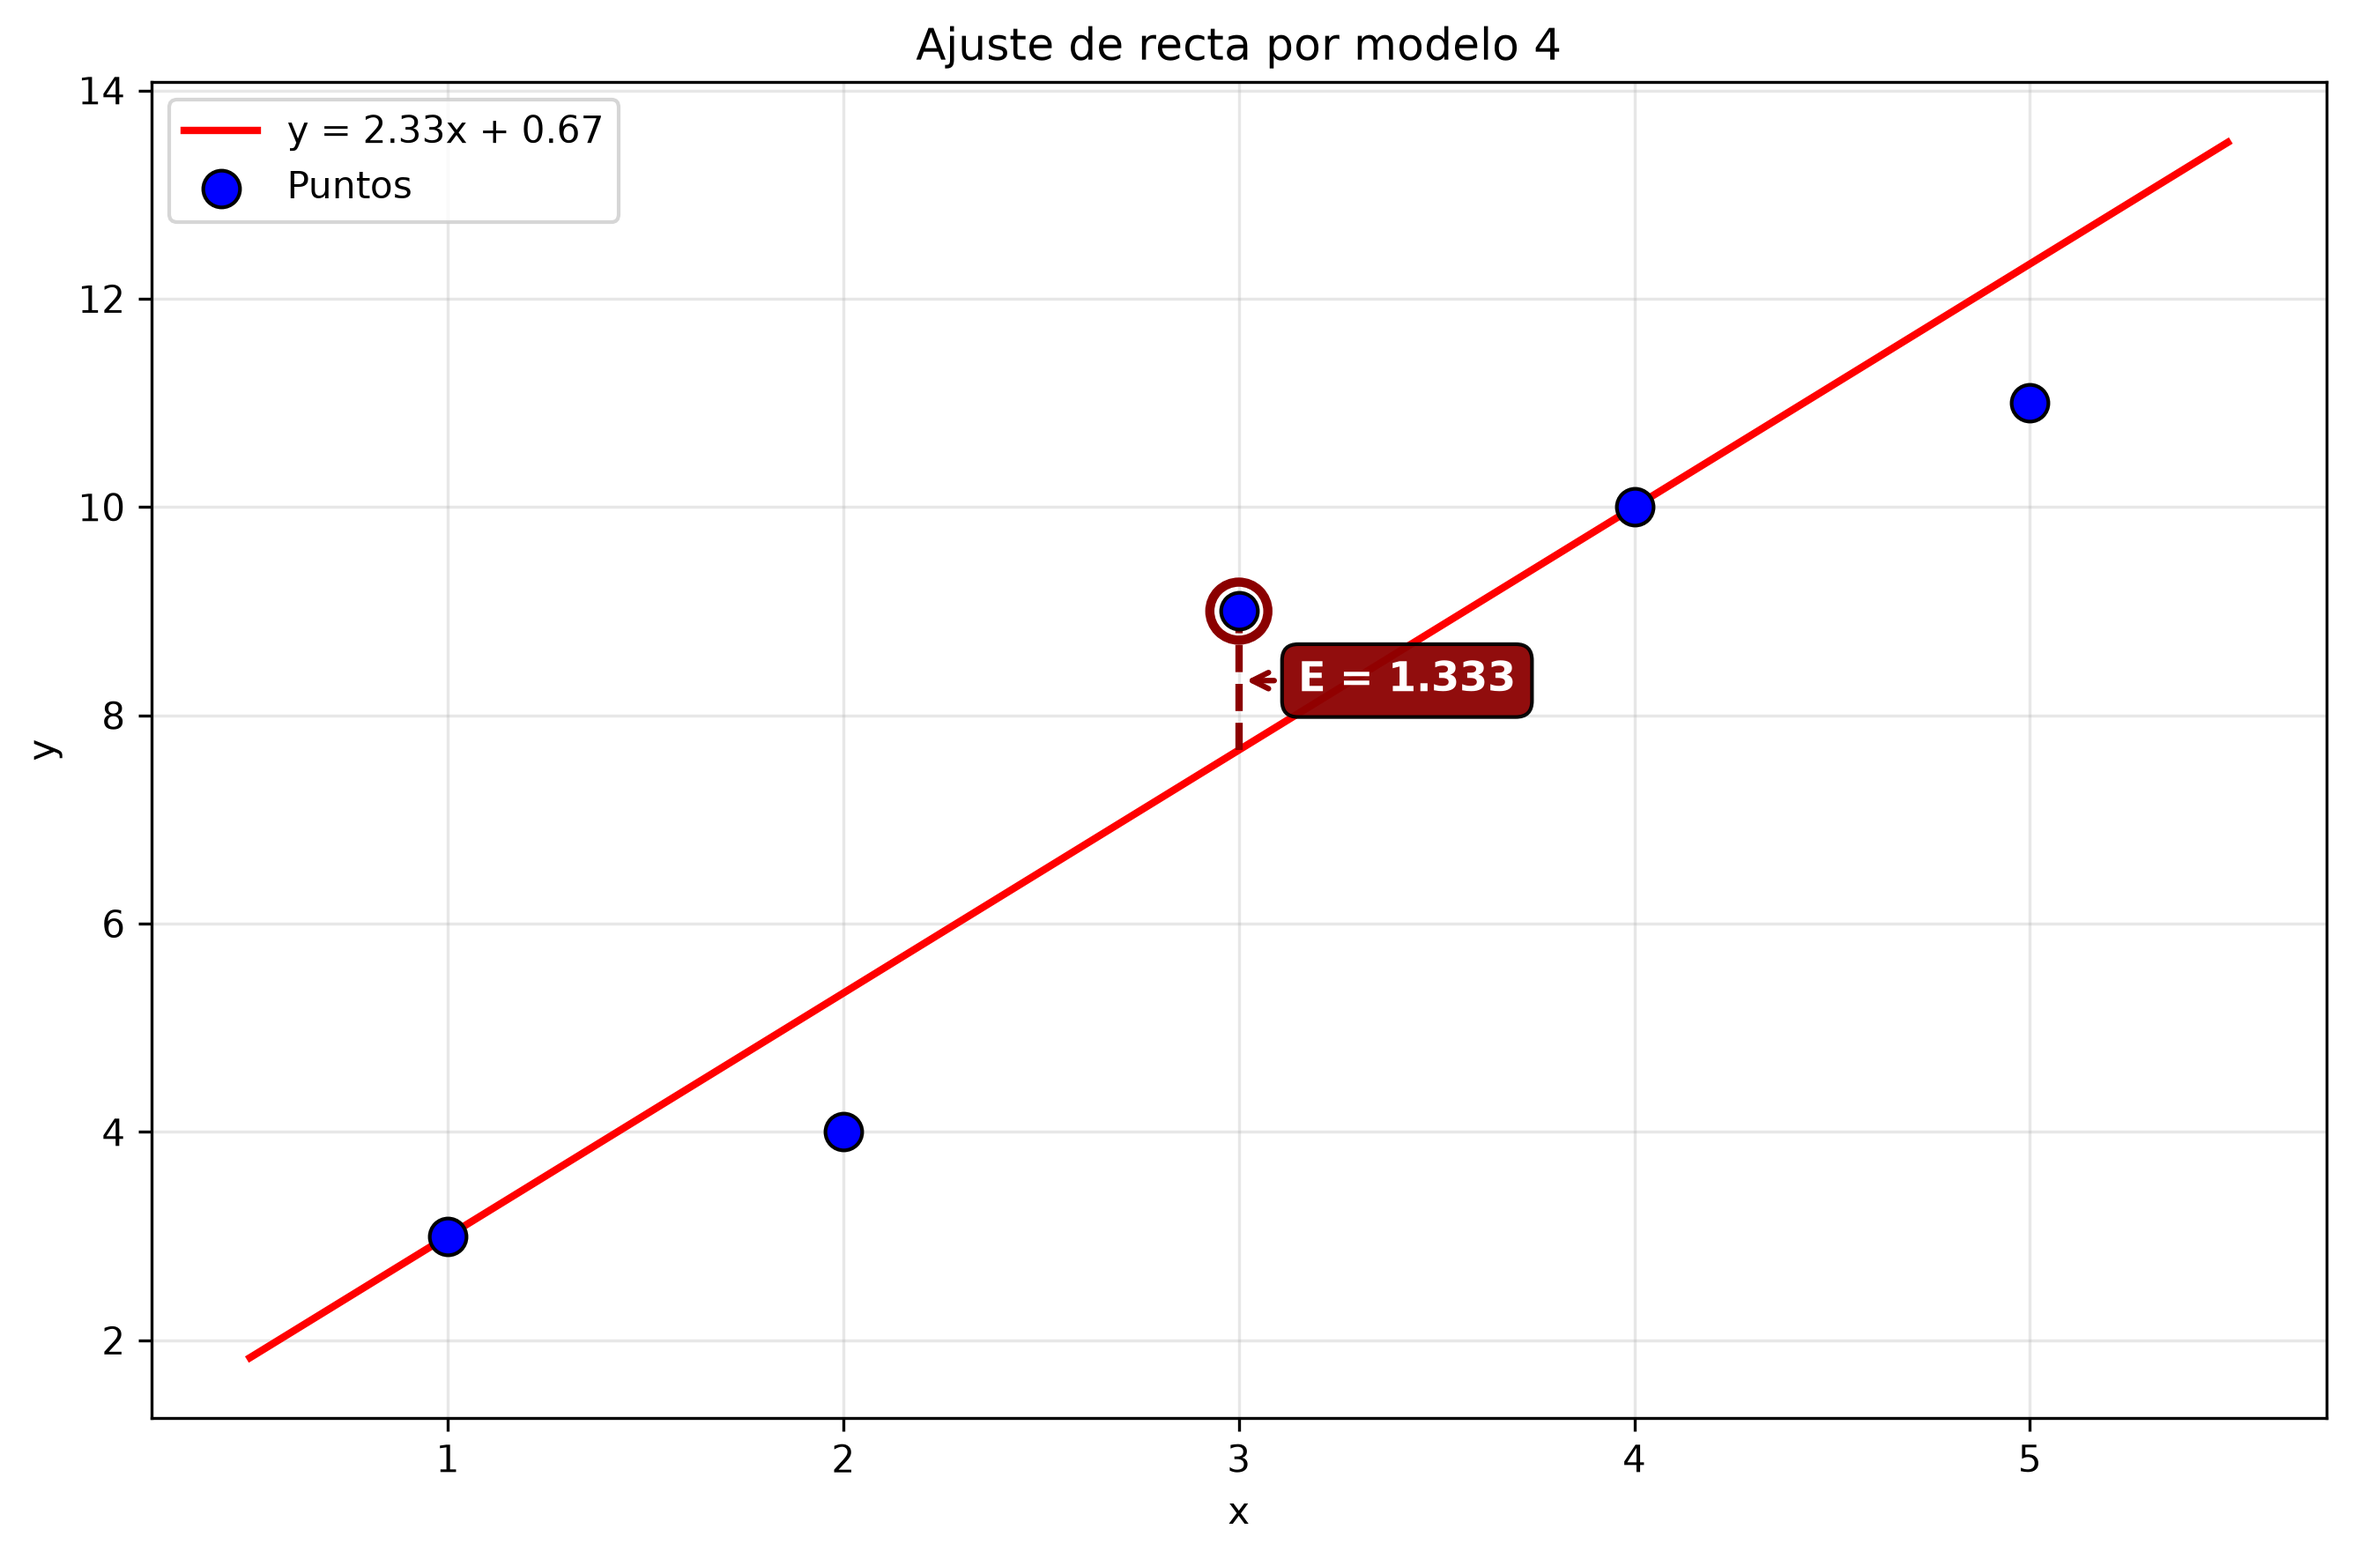
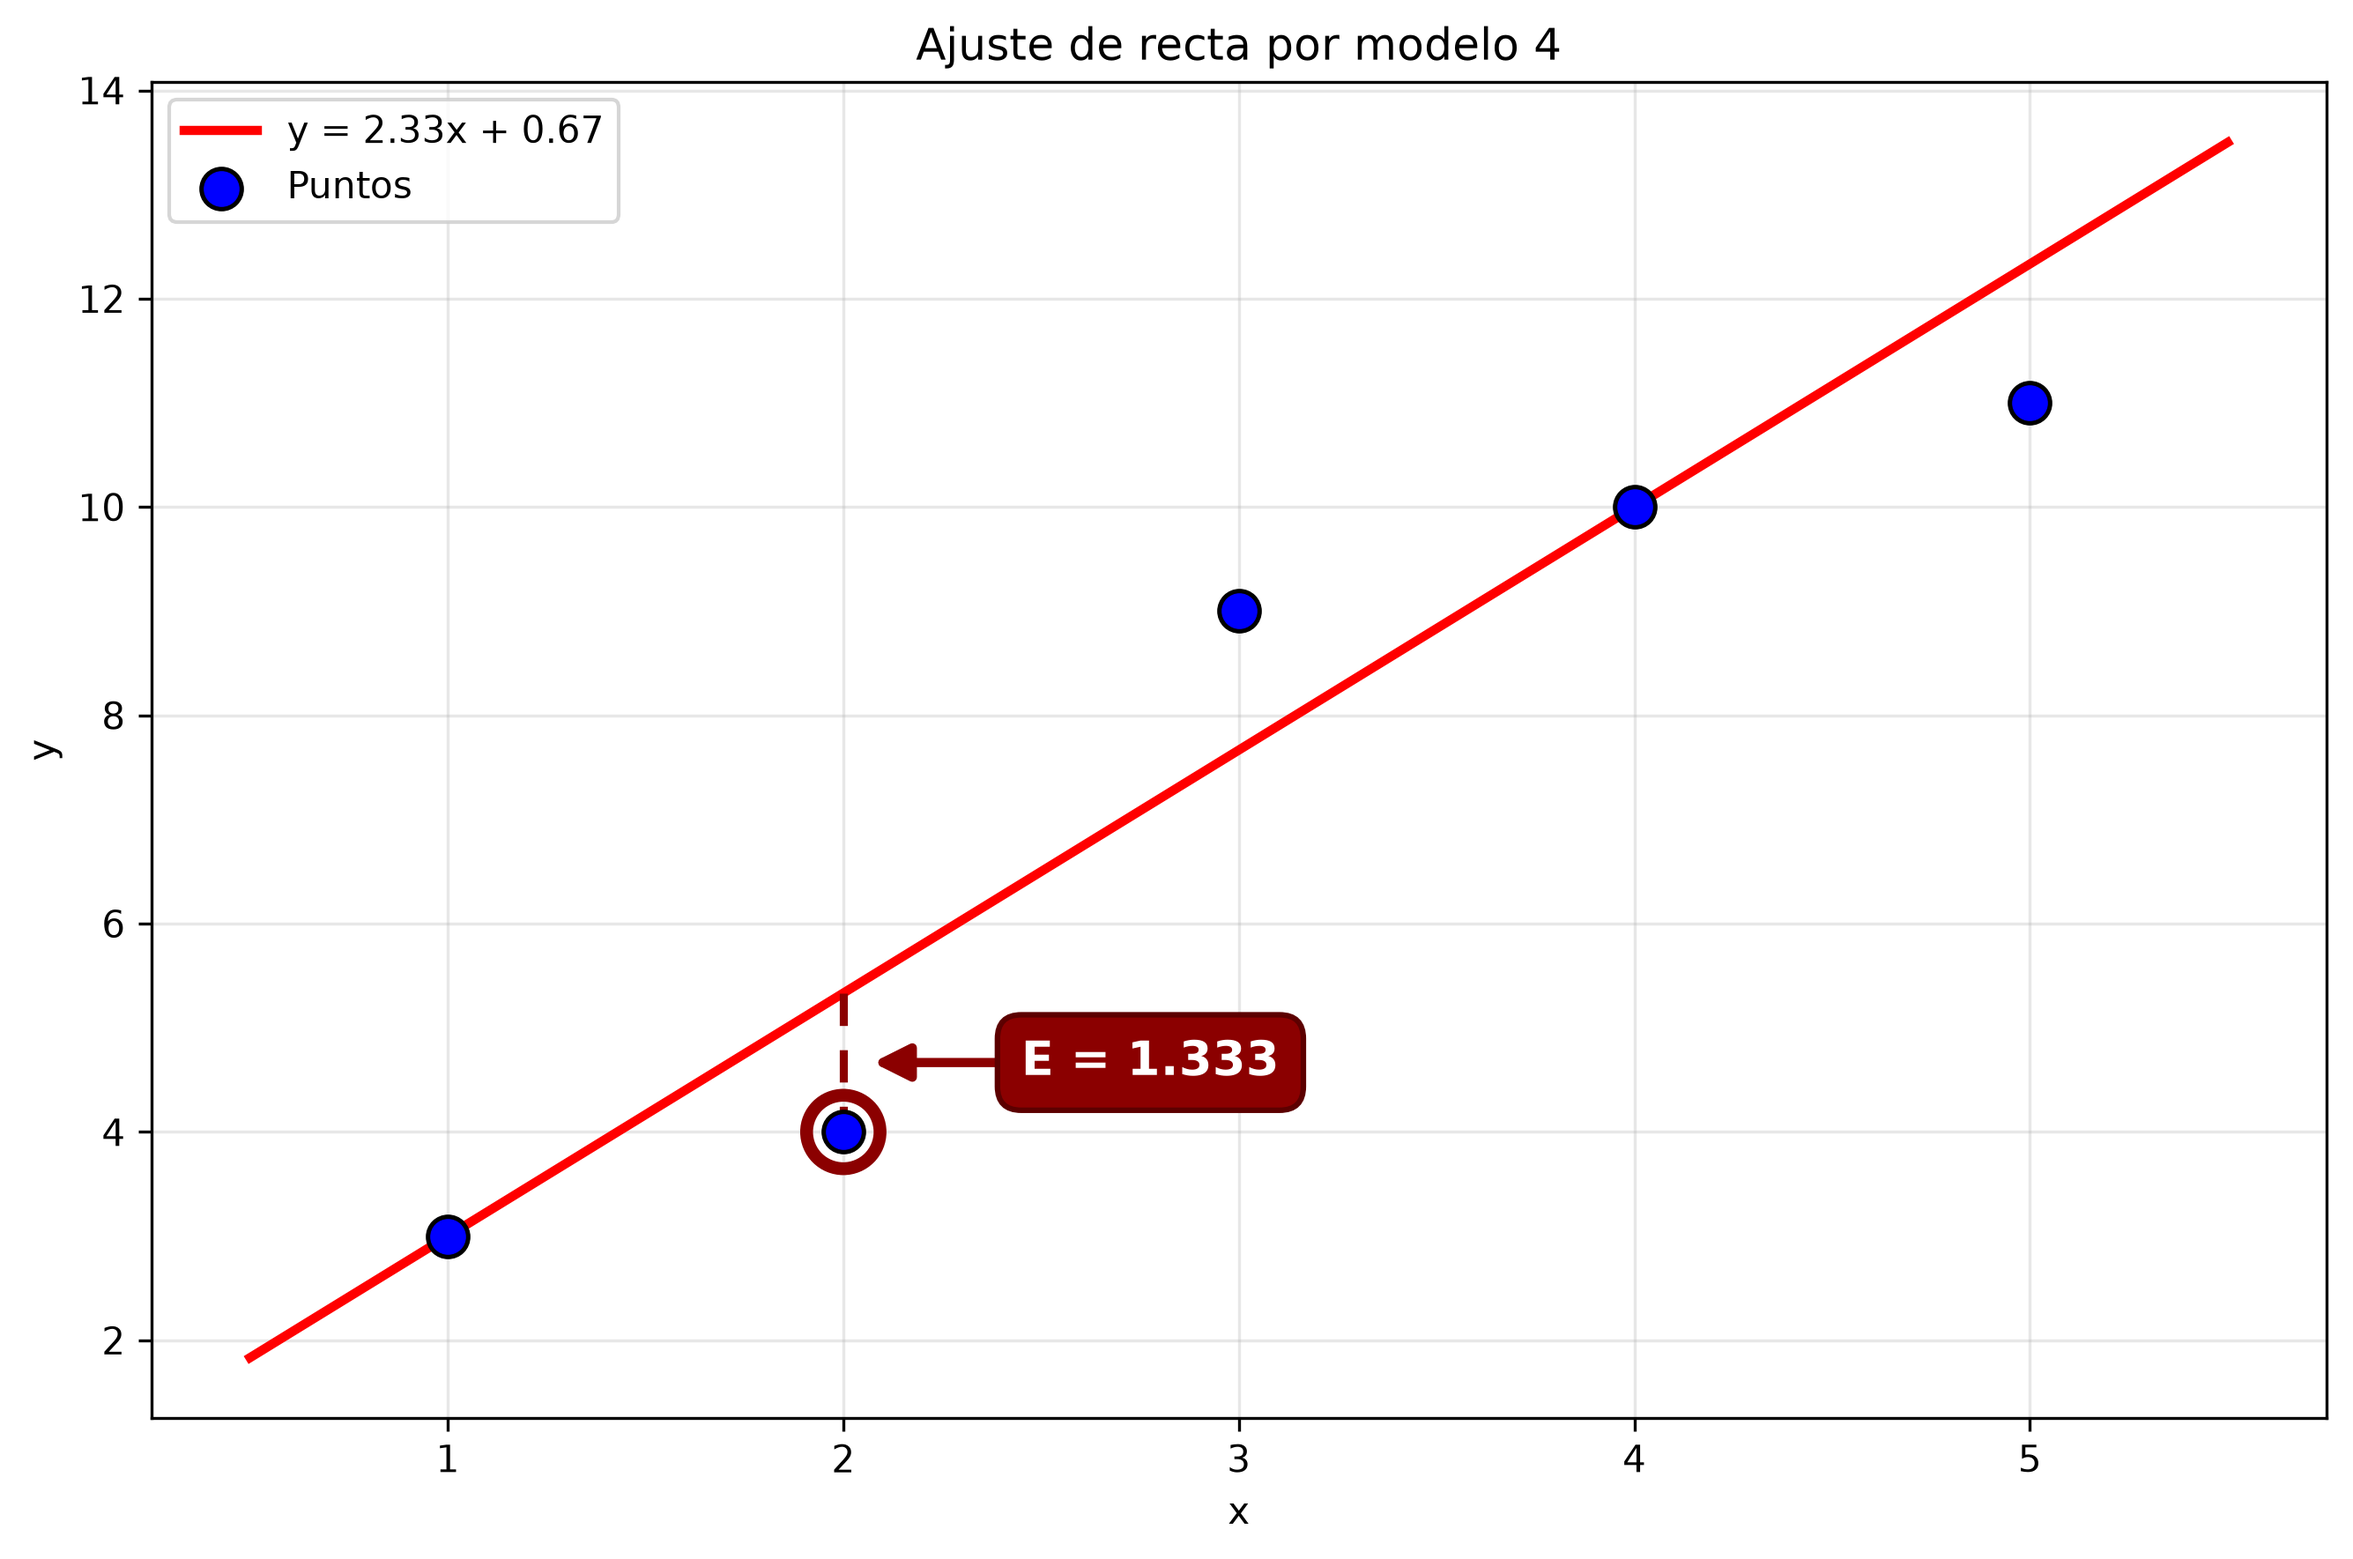
Actualiza el README con viñetas y añade la nueva gráfica

diff --git a/README.md b/README.md
@@ -1,8 +1,9 @@
 # Ajuste-de-recta-
 A continuación se presentan los códigos de los cuatro modelos del problema de optimización de ajuste de una recta:
-* Modelo 1 (Mínimos cuadrados)
-* Modelo 2 (Mínimizando el error)
-* Modelo 3 (Mínimizando la suma de los errores)
-* Modelo 4 (Mínimizando el máximo de los errores)
+* Modelo 1 (Mínimos cuadrados),
+* Modelo 2 (Mínimizando el error),
+* Modelo 3 (Mínimizando la suma de los errores),
+* Modelo 4 (Mínimizando el máximo de los errores).
 
-Para ejecutar los modelos 2,3 y 4, se deben usar solver, solver1 y solver2
+NOTA: 
+Para ejecutar los modelos 2,3 y 4, se deben usar solver, solver1 y solver2 para ejecutarlos.
